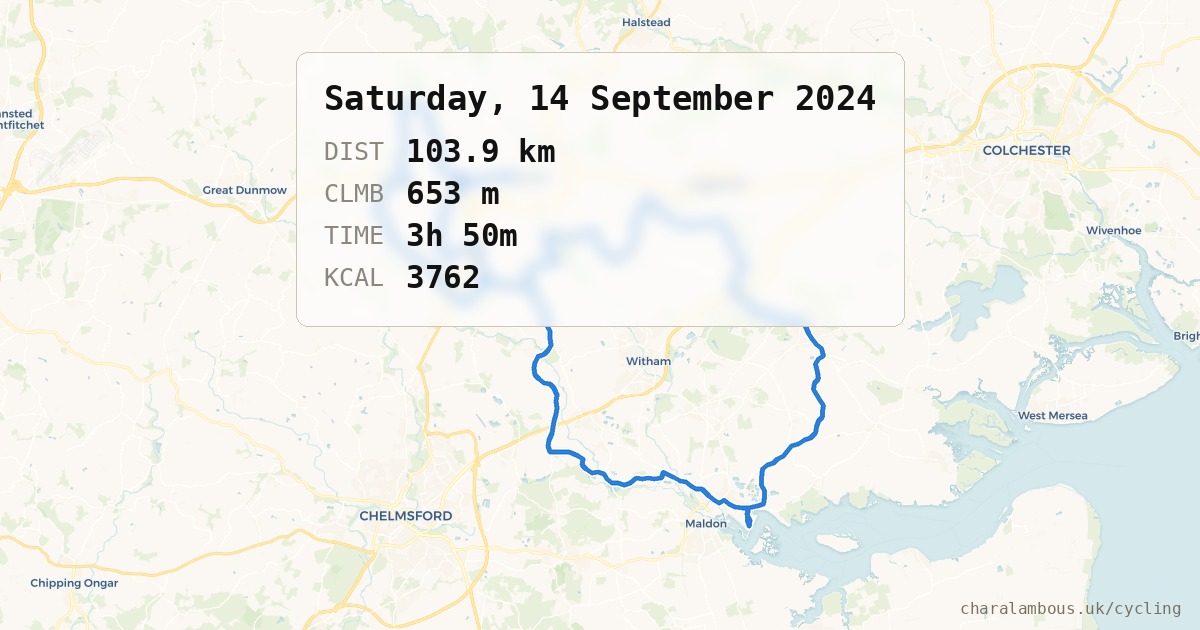
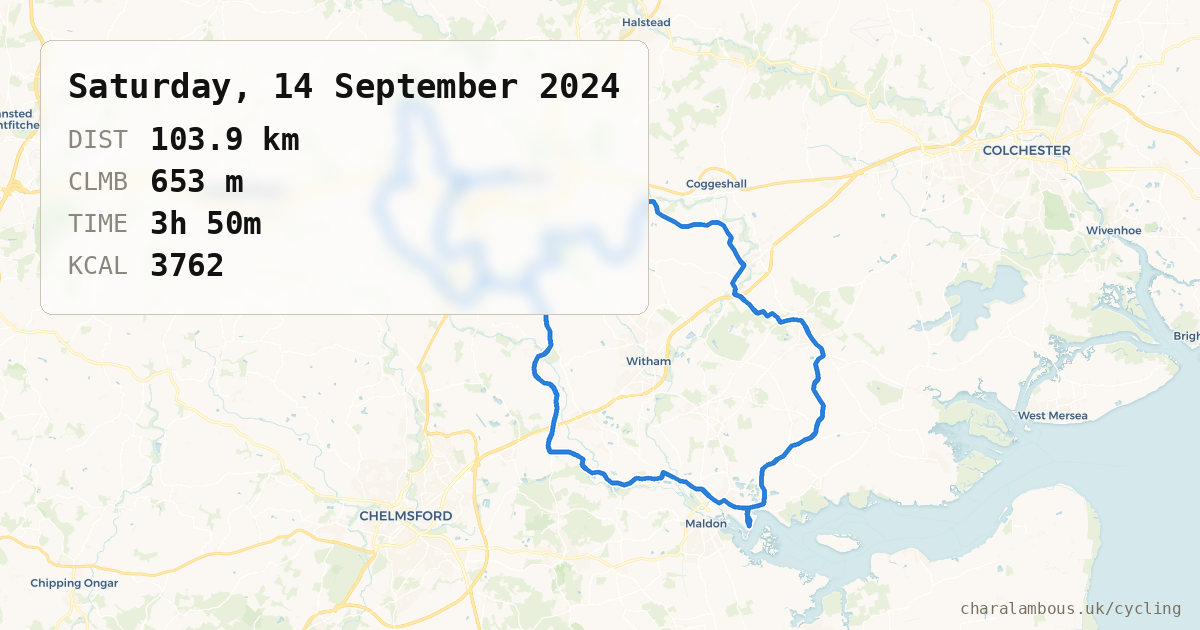
OG card: panel back to top-left with a 40px margin (won't clip on preview crops), left-aligned

diff --git a/scripts/garmin-sync/og_card.py b/scripts/garmin-sync/og_card.py
@@ -110,10 +110,9 @@ def _draw_panel(base, title, dist_km, climb_m, duration, calories):
     content_w = max(int(d0.textlength(title, font=f_title)), label_w + col_gap + val_w)
     pw = content_w + pad * 2
     ph = pad + title_h + len(rows) * row_h + pad
-    x0 = (W - pw) // 2
-    y0 = max(24, int((H * 0.60 - ph) / 2))  # centred in the map area above the graph
+    margin = 40  # keep clear of the edges so preview crops never clip it
+    x0, y0 = margin, margin
     x1, y1 = x0 + pw, y0 + ph
-    cx = (x0 + x1) / 2
 
     # frosted glass: blur + lighten the map region under the panel
     crop = base.crop((x0, y0, x1, y1)).filter(ImageFilter.GaussianBlur(7)).convert("RGBA")
@@ -124,9 +123,8 @@ def _draw_panel(base, title, dist_km, climb_m, duration, calories):
 
     d = ImageDraw.Draw(base)
     d.rounded_rectangle([x0, y0, x1, y1], radius=12, outline=(205, 198, 182, 255), width=1)
-    d.text((cx, y0 + pad - 2), title, font=f_title, fill=(18, 18, 18, 255), anchor="ma")
-    # rows: the label/value block is centred within the panel
     tx = x0 + pad
+    d.text((tx, y0 + pad - 2), title, font=f_title, fill=(18, 18, 18, 255), anchor="la")
     ty = y0 + pad + title_h
     for lab, val in rows:
         cy = ty + row_h / 2
